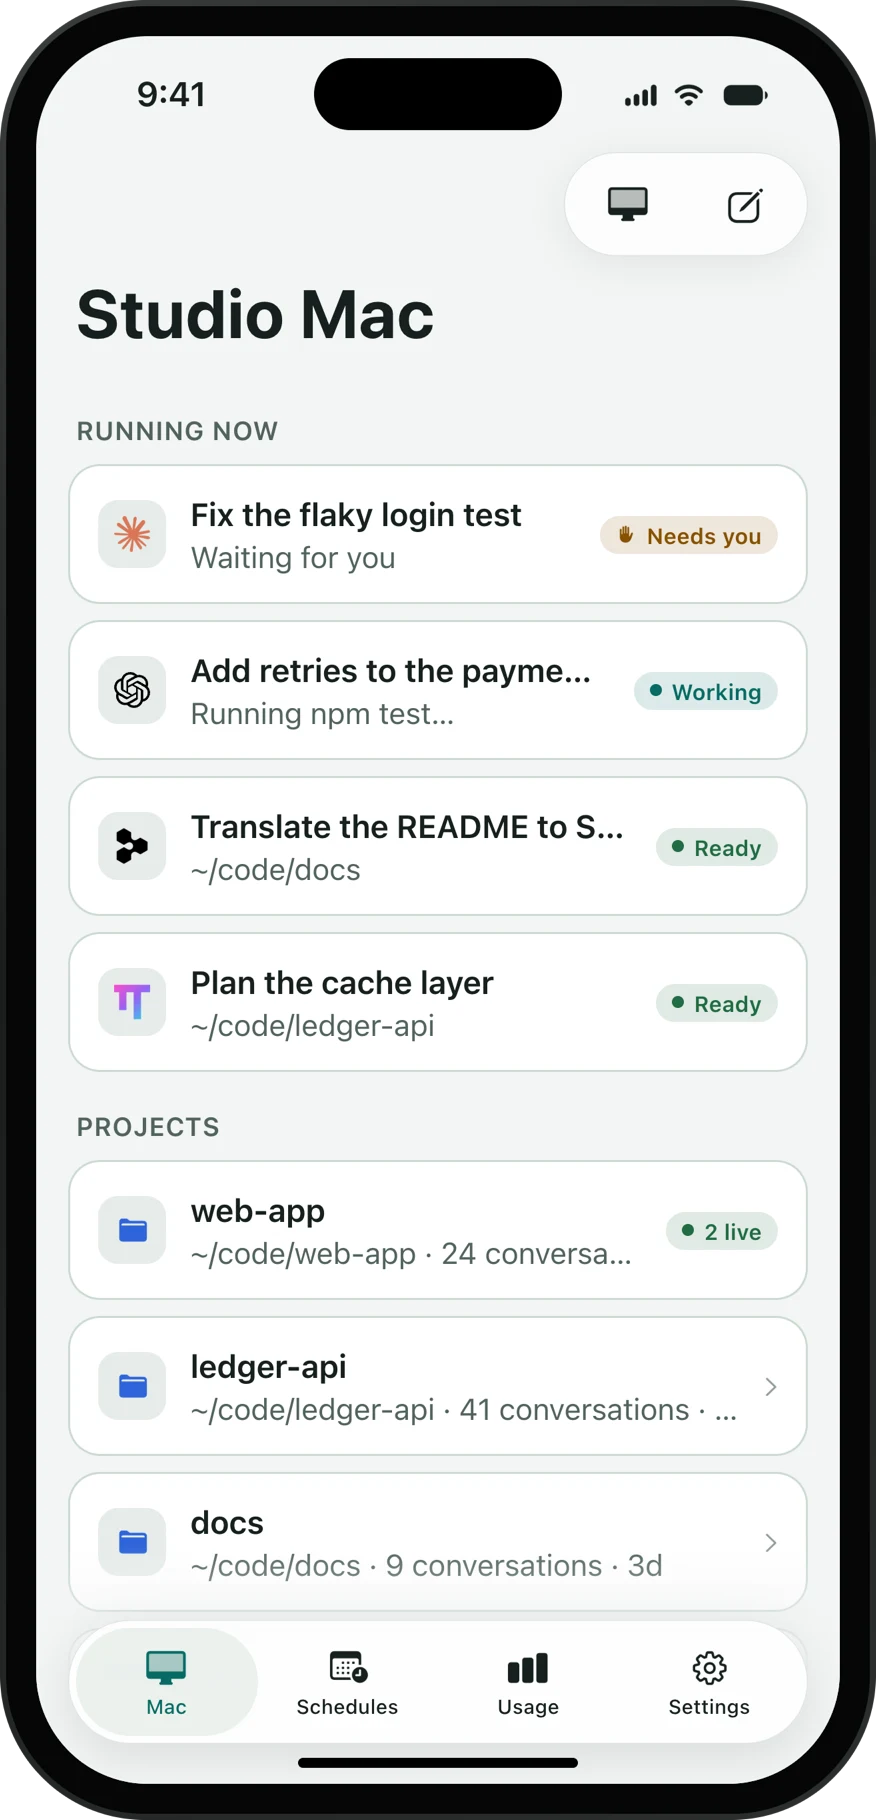
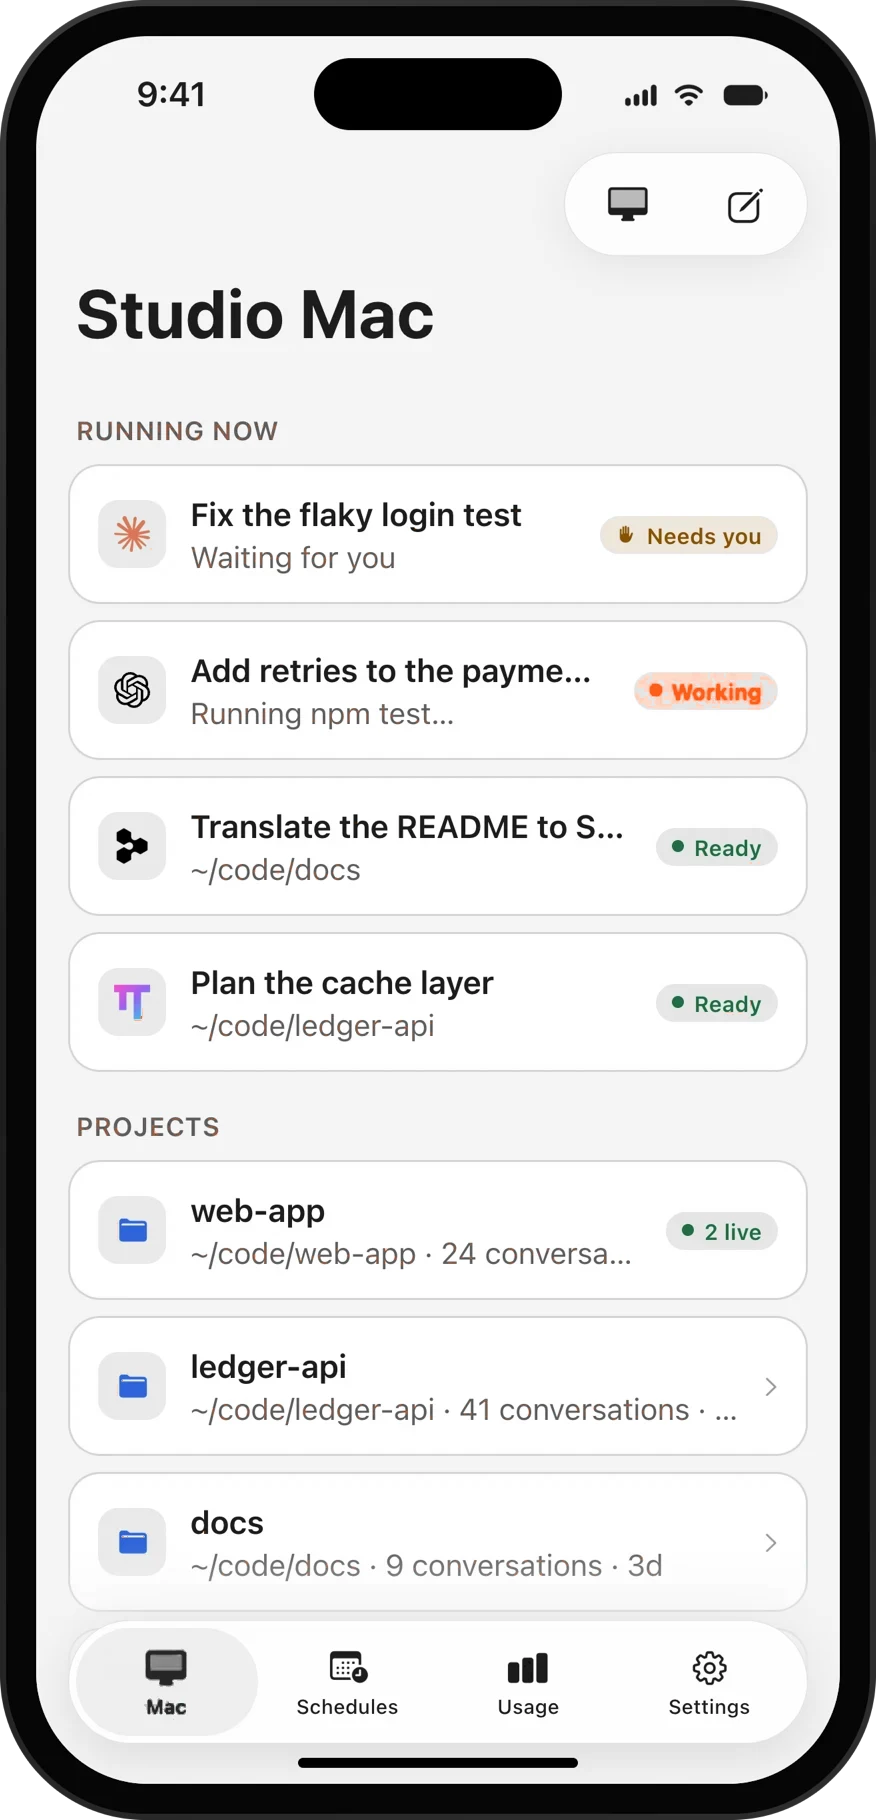
Design: white on heat, neutral navigation, true #FA5D19 everywhere
Filled heat buttons take white text in both modes on the app and site,
and heat is the design's #FA5D19 throughout (icon, favicon, share image
and app accent). The tab bar and header back buttons follow the theme's
text colour instead of turning orange.

The site's app screenshots are recoloured from teal, its phone hero keeps
the screenshot whole on the first screen, and the threads row fits its
screen. tasteskill's gate passes; the white-on-heat contrast is waived by
choice.

Changed region(s): [[0.7089, 0.3692, 0.8938, 0.4], [0.1541, 0.8923, 0.2158, 0.9538]]

diff --git a/site/public/site.css b/site/public/site.css
@@ -19,17 +19,17 @@ html[data-radius="soft"] { --r-lg: 16px; }
               font: 400 4.815cqw/1.4 var(--font-text); background: #f9f9f9; color: #262626; }
 .ph__sb { display: flex; justify-content: space-between; align-items: center; padding: .92em 1.85em .46em; font-size: .92em; font-weight: 600; }
 .ph__sb i { width: 5.7em; height: 1.7em; border-radius: .92em; background: #0a0a0a; }
-.ph__nav { display: flex; align-items: center; justify-content: space-between; gap: .6em; padding: .46em 1.08em .77em; color: #c2410c; }
+.ph__nav { display: flex; align-items: center; justify-content: space-between; gap: .6em; padding: .46em 1.08em .77em; color: #262626; }
 .ph__nav b { color: #262626; font-weight: 600; white-space: nowrap; overflow: hidden; text-overflow: ellipsis; }
 .ph__body { flex: 1; min-height: 0; padding: .3em .92em .92em; display: flex; flex-direction: column; gap: .77em; overflow: hidden; }
 .ph__tabs { display: flex; justify-content: space-around; padding: .77em .6em 1.7em; background: #fff; border-top: 1px solid #efefef; font-size: .81em; color: #5c5c5c; }
-.ph__tabs .on { color: #c2410c; font-weight: 600; }
+.ph__tabs .on { color: #262626; font-weight: 600; }
 .ph--dark .ph__screen { background: #0a0a0a; color: #f5f5f5; }
-.ph--dark .ph__nav { color: #fa5d19; } .ph--dark .ph__nav b { color: #f5f5f5; }
+.ph--dark .ph__nav { color: #f5f5f5; } .ph--dark .ph__nav b { color: #f5f5f5; }
 .ph--lock .ph__screen { background: linear-gradient(#3a1d10, #0a0a0a); color: #fff; }
 
 /* what the app shows */
-.ph .bub { align-self: flex-end; max-width: 84%; padding: .6em .85em; border-radius: 1.23em 1.23em .3em 1.23em; background: #c2410c; color: #fff; }
+.ph .bub { align-self: flex-end; max-width: 84%; padding: .6em .85em; border-radius: 1.23em 1.23em .3em 1.23em; background: #fa5d19; color: #fff; }
 .ph .msg { margin: 0; }
 .ph .k { margin: 0; color: #5c5c5c; font-size: .92em; }
 .ph .sheet { display: flex; flex-direction: column; gap: .6em; padding: .92em; border-radius: 1.23em; background: #fff; box-shadow: 0 1px 0 #e8e8e8; }
@@ -37,11 +37,11 @@ html[data-radius="soft"] { --r-lg: 16px; }
 .ph code { font: .88em var(--font-mono); background: #efefef; padding: .23em .46em; border-radius: .46em; }
 .ph .btns { display: flex; gap: .6em; }
 .ph .btns span { flex: 1; text-align: center; padding: .7em 0; border-radius: .92em; background: #efefef; font-weight: 600; }
-.ph .btns span.on { background: #c2410c; color: #fff; }
+.ph .btns span.on { background: #fa5d19; color: #fff; }
 .ph .comp { margin-top: auto; padding: .77em .92em; border-radius: 1.4em; background: #fff; box-shadow: 0 1px 0 #e8e8e8; color: #5c5c5c; }
 .ph .chips { display: flex; flex-wrap: wrap; gap: .46em; margin-top: .6em; }
 .ph .chips em, .ph .seg span { font: 500 .85em var(--font-mono); font-style: normal; padding: .3em .6em; border-radius: 99em; background: #efefef; color: #262626; }
-.ph .chips em.on, .ph .seg span.on { background: #c2410c; color: #fff; }
+.ph .chips em.on, .ph .seg span.on { background: #fa5d19; color: #fff; }
 .ph .diff { display: flex; flex-direction: column; font: .81em/1.7 var(--font-mono); background: #fff; border-radius: .92em; padding: .6em 0; overflow: hidden; }
 .ph .diff span { padding: 0 .77em; white-space: pre; }
 .ph .diff .a { background: #d8efe0; } .ph .diff .r { background: #f6dadc; }
@@ -52,10 +52,10 @@ html[data-radius="soft"] { --r-lg: 16px; }
 .ph .li span { flex: 1; min-width: 0; display: flex; flex-direction: column; }
 .ph .li b { font-weight: 500; white-space: nowrap; overflow: hidden; text-overflow: ellipsis; }
 .ph .li small, .ph .li em { font-size: .85em; color: #5c5c5c; font-style: normal; }
-.ph .li em.you { color: #c2410c; font-weight: 600; } .ph .li em.work { color: #262626; }
+.ph .li em.you { color: #fa5d19; font-weight: 600; } .ph .li em.work { color: #262626; }
 .ph .opt { display: flex; flex-direction: column; padding: .6em .77em; border-radius: .77em; background: #f9f9f9; font-weight: 500; }
 .ph .opt small { font-weight: 400; color: #5c5c5c; font-size: .85em; }
-.ph .opt.on { box-shadow: inset 0 0 0 .15em #c2410c; }
+.ph .opt.on { box-shadow: inset 0 0 0 .15em #fa5d19; }
 .ph .seg { display: flex; flex-wrap: wrap; gap: .3em; }
 .ph .lock { display: flex; flex-direction: column; align-items: center; padding: 1.4em 0 .9em; }
 .ph .lock strong { font-size: 4.4em; font-weight: 600; line-height: 1; letter-spacing: -0.03em; }
@@ -94,7 +94,7 @@ html[data-radius="soft"] { --r-lg: 16px; }
 .hero__proof { font-size: var(--t-small); color: var(--muted); }
 
 /* threads: the home list and an open thread, side by side; one on a phone */
-.shots { position: relative; display: flex; justify-content: center; gap: clamp(24px, 6vw, 96px); margin-top: var(--s-7); height: clamp(480px, 70svh, 760px); }
+.shots { position: relative; display: flex; justify-content: center; gap: clamp(24px, 6vw, 96px); margin-top: var(--s-7); height: clamp(440px, 60svh, 700px); }
 .shots > .shot { position: relative; }
 @media (max-width: 639px) {
   .shots { height: auto; }
@@ -110,7 +110,14 @@ html[data-radius="soft"] { --r-lg: 16px; }
 #phone .panel { --p-h: 276px; }
 #setup .panel { --p-h: 300px; }
 @media (min-width: 1280px) { #setup .panel { --p-h: clamp(400px, 100svh - 500px, 560px); } }
-@media (max-width: 639px) { #phone .panel { --p-h: 188px; } #setup .panel { --p-h: 300px; } }
+@media (max-width: 639px) { #phone .panel { --p-h: 168px; } #setup .panel { --p-h: 300px; } }
+/* a phone: the hero's screenshot takes the room under the words (the licence line is in the close too) */
+@media (max-width: 639px) {
+  .hero__proof { display: none; }
+  .hero__lead { font-size: 16px; }
+  .hero .btn-row { margin-top: var(--s-5); }
+  .hero__art { flex: 1 1 0; min-height: 0; margin-top: var(--s-5); }
+}
 
 /* the diagrams and the lists */
 #agents .frame--diagram { aspect-ratio: auto; height: 470px; margin-top: var(--s-7); }

diff --git a/app/src/lib/palette.test.ts b/app/src/lib/palette.test.ts
@@ -13,22 +13,23 @@ function contrast(a: string, b: string) {
   return (values[0] + 0.05) / (values[1] + 0.05);
 }
 
-test('Text and functional colors and functional colors remain readable in both appearances', () => {
+test('Text and functional colors remain readable in both appearances', () => {
   for (const i of [0, 1]) {
     for (const background of ['bg', 'surface', 'card', 'muted'] as const) {
-      for (const foreground of ['text', 'dim', 'faint', 'accent', 'blue', 'green', 'red', 'warn'] as const) {
+      for (const foreground of ['text', 'dim', 'faint', 'blue', 'green', 'red', 'warn'] as const) {
         const ratio = contrast(PALETTE[foreground][i], PALETTE[background][i]);
         assert.ok(ratio >= 4.5, `${i} ${foreground}/${background}: ${ratio}`);
       }
     }
-    assert.ok(contrast(PALETTE.onAccent[i], PALETTE.accent[i]) >= 4.5);
+    // heat is a fill and a mark, held to the 3:1 of UI components and large text
+    assert.ok(contrast(PALETTE.accent[i], PALETTE.bg[i]) >= 3);
+    assert.ok(contrast(PALETTE.onAccent[i], PALETTE.accent[i]) >= 3);
   }
 });
 
-test('Heat takes a dark foreground on its bright dark-mode fill', () => {
-  assert.equal(PALETTE.accent[0], '#C2410C');
-  assert.equal(PALETTE.accent[1], '#FA5D19');
-  assert.equal(PALETTE.onAccent[0], '#FFFFFF');
-  assert.equal(PALETTE.onAccent[1], '#0A0A0A');
-  assert.ok(contrast('#FFFFFF', PALETTE.accent[1]) < 4.5);
+test('Heat is the design\'s orange with white on it in both modes', () => {
+  for (const i of [0, 1]) {
+    assert.equal(PALETTE.accent[i], '#FA5D19');
+    assert.equal(PALETTE.onAccent[i], '#FFFFFF');
+  }
 });

diff --git a/app/src/app/(tabs)/_layout.tsx b/app/src/app/(tabs)/_layout.tsx
@@ -11,7 +11,7 @@ export default function Tabs() {
   const { data: jobs } = useLoad(() => api<Job[]>('/schedules'), [], 'schedules');
   const unread = (jobs ?? []).reduce((n, j) => n + news(j), 0);
   return (
-    <NativeTabs minimizeBehavior="onScrollDown" tintColor={h.accent} {...(process.env.EXPO_OS === 'android' ? { labelVisibilityMode: 'labeled' as const, backgroundColor: h.card, indicatorColor: h.muted, iconColor: { default: h.dim, selected: h.accent }, labelStyle: { default: { color: h.dim }, selected: { color: h.accent } } } : {})}>
+    <NativeTabs minimizeBehavior="onScrollDown" tintColor={h.text} {...(process.env.EXPO_OS === 'android' ? { labelVisibilityMode: 'labeled' as const, backgroundColor: h.card, indicatorColor: h.muted, iconColor: { default: h.dim, selected: h.text }, labelStyle: { default: { color: h.dim }, selected: { color: h.text } } } : {})}>
       <NativeTabs.Trigger name="(home)">
         <NativeTabs.Trigger.Icon sf="desktopcomputer" md="computer" />
         <NativeTabs.Trigger.Label>Mac</NativeTabs.Trigger.Label>

diff --git a/app/src/lib/palette.ts b/app/src/lib/palette.ts
@@ -1,6 +1,6 @@
-// Heat on near-neutral greys (DESIGN.md). Light mode deepens heat to #C2410C so
-// it holds 4.5:1 as text and under white; dark mode keeps #FA5D19 with a dark
-// foreground on fills. Status colours are the design's accents, held to AA.
+// Heat on near-neutral greys (DESIGN.md): #FA5D19 with white on fills in both
+// modes, as the design specifies (3.2:1, the large-text/UI level). Navigation
+// chrome stays neutral; heat marks actions only. Status colours held to AA.
 export const PALETTE = {
   bg: ['#F9F9F9', '#0A0A0A'],
   surface: ['#FFFFFF', '#141414'],
@@ -11,8 +11,8 @@ export const PALETTE = {
   text: ['#262626', '#F5F5F5'],
   dim: ['#5C5C5C', '#A3A3A3'],
   faint: ['#666666', '#8F8F8F'],
-  accent: ['#C2410C', '#FA5D19'],
-  onAccent: ['#FFFFFF', '#0A0A0A'],
+  accent: ['#FA5D19', '#FA5D19'],
+  onAccent: ['#FFFFFF', '#FFFFFF'],
   blue: ['#1F5BD6', '#6B9AFF'],
   green: ['#1D7A3A', '#4ED273'],
   red: ['#C4291B', '#FF6B5C'],

diff --git a/app/src/app/_layout.tsx b/app/src/app/_layout.tsx
@@ -67,7 +67,7 @@ export default function Layout() {
         <StatusBar style={h.dark ? 'light' : 'dark'} />
         <Stack
           screenOptions={{
-            headerTintColor: h.accent,
+            headerTintColor: h.text,
             headerTitleStyle: { color: h.text },
             headerLargeTitleStyle: { color: h.text },
             headerStyle: { backgroundColor: h.bg },

diff --git a/app/app.config.js b/app/app.config.js
@@ -50,7 +50,7 @@ module.exports = {
     android: {
       package: 'dev.luther.app',
       adaptiveIcon: {
-        backgroundColor: '#C2410C',
+        backgroundColor: '#FA5D19',
         foregroundImage: './assets/images/luther-android-foreground.png',
         monochromeImage: './assets/images/luther-android-monochrome.png',
       },

diff --git a/docs/PLAN.md b/docs/PLAN.md
@@ -37,7 +37,7 @@ Mac: `luther serve` (Go, one binary, launchd), listens on 127.0.0.1 only
 | Codex wire types generated from `codex app-server generate-json-schema` | The protocol is large and versioned; generate, don't hand-write. |
 | Reuse Burrow's Go engine (Claude stream-json, verified wire facts, session indexer, pairing, push) | Same author, already verified against the real CLI. |
 | Never write to `~/.claude` or `~/.codex` | Those are the CLIs' stores; Luther only reads them. |
-| Visual identity: Luther's own name, wordmark and Relay mark in the visual language of `DESIGN.md` (near-neutral greys, one heat orange, Inter/Geist Mono on the site, radii 8/12/16, titles at weight 500) | User choice (Nov 9): the style, not another company's brand — no borrowed logo, name, flame or copy; open fonts stand in for proprietary ones. `app/src/lib/palette.ts` owns semantic colors; `scripts/generate-brand.swift` generates repo/mobile artwork from it. Heat is `#C2410C` in light mode (4.5:1 as text and under white) and `#FA5D19` with a dark foreground in dark mode; the site uses the same pair for actions and `#FA5D19` for the mark. |
+| Visual identity: Luther's own name, wordmark and Relay mark in the visual language of `DESIGN.md` (near-neutral greys, one heat orange, Inter/Geist Mono on the site, radii 8/12/16, titles at weight 500) | User choice (Nov 9): the style, not another company's brand — no borrowed logo, name, flame or copy; open fonts stand in for proprietary ones. `app/src/lib/palette.ts` owns semantic colors; `scripts/generate-brand.swift` generates repo/mobile artwork from it. Heat is `#FA5D19` with white on it in both modes, on the app, icon and site (user choice: 3.2:1, the large-text/UI level, not 4.5:1); heat marks actions only, navigation (tab bar, header back buttons, the mockups' active tab) follows the theme's text colour. |
 
 ## Phases
 
@@ -192,7 +192,9 @@ Mac: `luther serve` (Go, one binary, launchd), listens on 127.0.0.1 only
 ### Phase 9m: Design refresh (Nov 9)
 - [x] `DESIGN.md` mapped onto both clients: app palette (light and dark), type weights, card/button/input radii, generated icon, splash and widgets; site palette with a light default and a dark `prefers-color-scheme`, Inter + Geist Mono, heat-wash lit ground, primary-button shadow
 - [x] Site: on a short desktop window (1280+ wide, under 820 tall) sections grow past one screen instead of running into the next (Setup and Questions overlapped before). Checked at 375×812, 1280×680, 1440×760, 1440×900, light and dark
-- [ ] The site's app screenshots (`site/public/screens/*.webp`) still show the old teal app; retake them from the new build
+- [x] White text on every heat fill (app and site, both modes); the tab bar, header back buttons and the mockups' active tab follow the theme's text colour, not heat. Icon, favicon and share image in `#FA5D19`
+- [x] Site checked with tasteskill's gate (`GATE: PASS`, waivers in `site/.taste-skill/waivers.json`: white-on-heat contrast by the user's choice, the final h1's line count, the centred screenshot pair, the kit diagram's first-view colour); the phone hero keeps its screenshot whole on the first screen
+- [ ] The site's app screenshots were recoloured from the teal captures (`site/public/screens/*.webp`), not retaken: they keep the old title weights and radii; retake them from the new build
 
 ### Phase 9l: More agents (Phase D, next)
 - [ ] GitHub Copilot CLI (#6), Kimi Code CLI (#11), Qwen Code (#12), Factory Droid (#13), Grok CLI (#14), Amp (#15): each over ACP where it has it; see the issues
